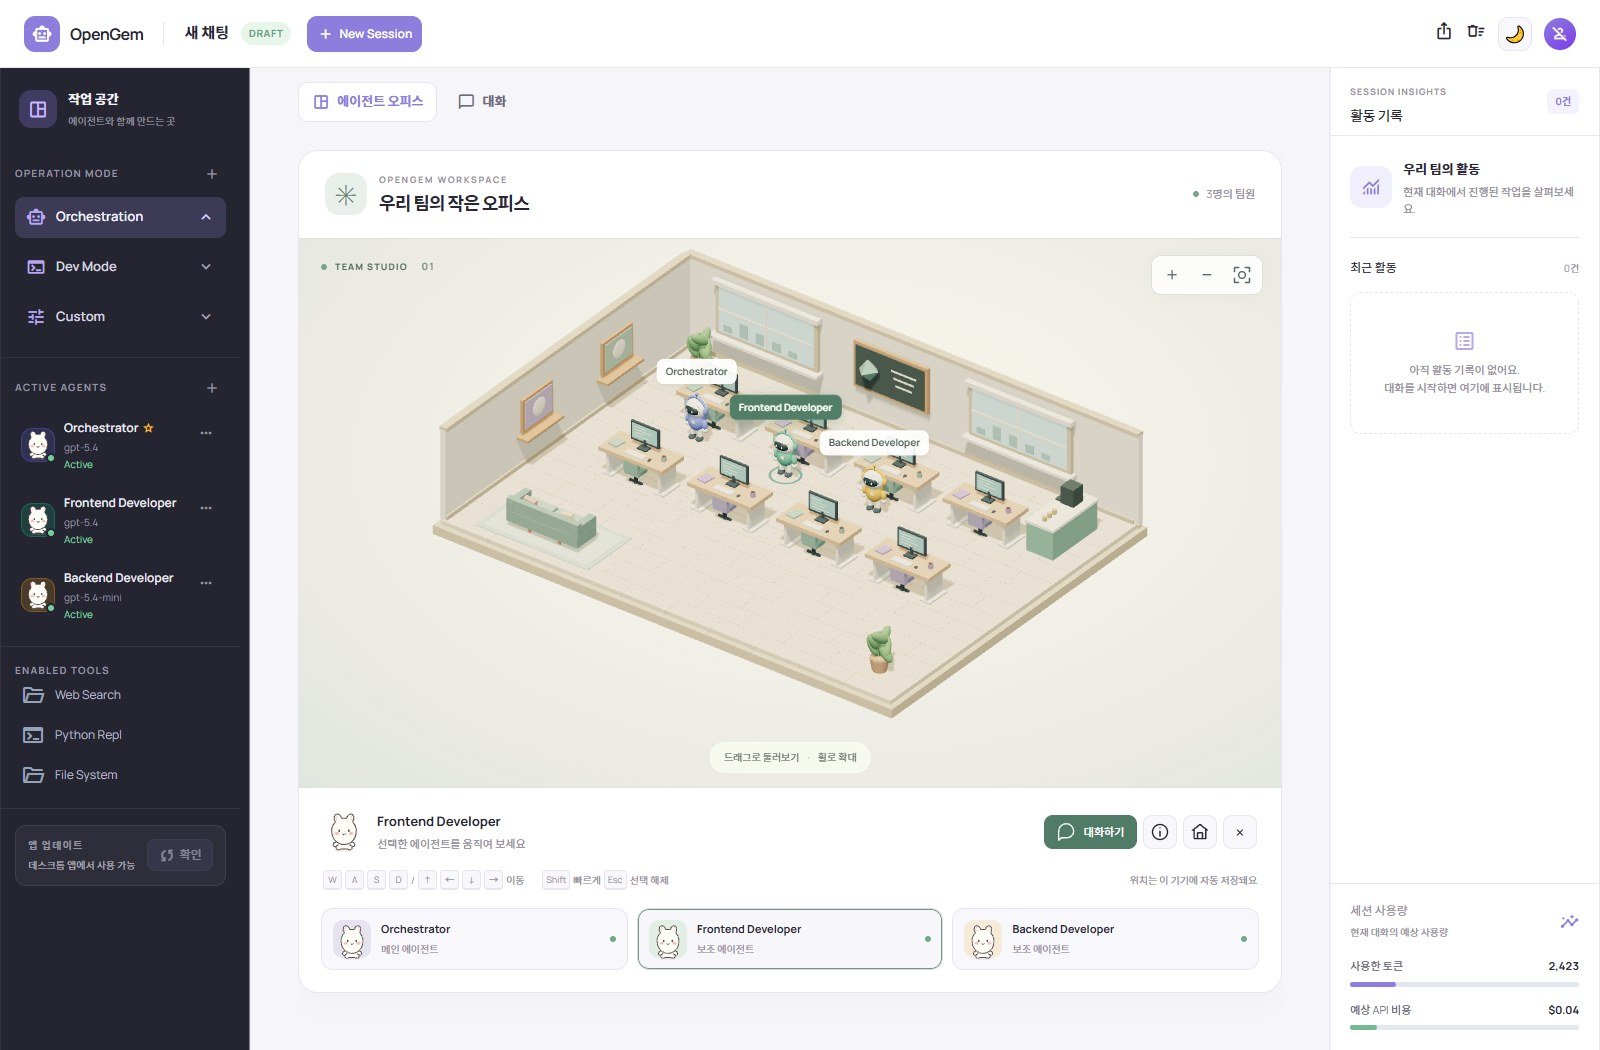
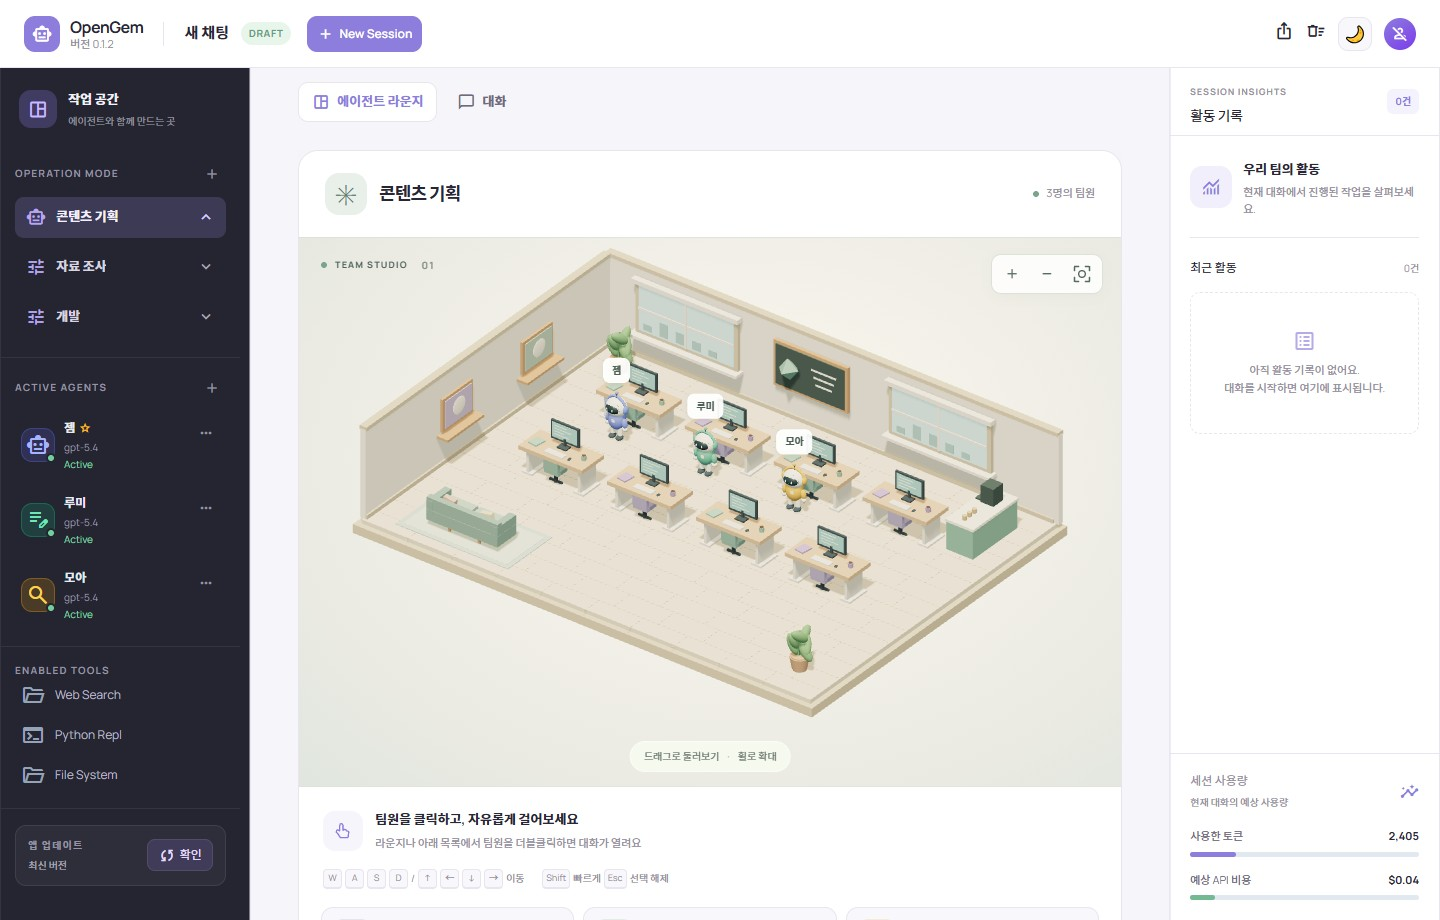
에이전트 라운지에 선택한 작업 모드 이름 표시

diff --git a/src/pages/chat/components/office/AgentOffice.tsx b/src/pages/chat/components/office/AgentOffice.tsx
@@ -9,6 +9,7 @@ import "./AgentOffice.css";
 const OfficeViewport = lazy(() => import("./OfficeViewport"));
 
 type AgentOfficeProps = {
+  modeName: string;
   agents: AgentItem[];
   selectedAgentIndex: number | null;
   onSelectAgent: (index: number) => void;
@@ -17,6 +18,7 @@ type AgentOfficeProps = {
 };
 
 export function AgentOffice({
+  modeName,
   agents,
   selectedAgentIndex,
   onSelectAgent,
@@ -41,16 +43,13 @@ export function AgentOffice({
   };
 
   return (
-    <section className="agent-office" aria-label="에이전트 오피스">
+    <section className="agent-office" aria-label="에이전트 라운지">
       <header className="office-header">
         <div className="office-title">
           <span className="office-brand-mark" aria-hidden="true">
             ✳
           </span>
-          <div>
-            <span className="office-eyebrow">OPENGEM WORKSPACE</span>
-            <h2>우리 팀의 작은 오피스</h2>
-          </div>
+          <h2>{modeName}</h2>
         </div>
         <span className="office-live">
           <i /> {agents.length}명의 팀원
@@ -60,7 +59,7 @@ export function AgentOffice({
         <Suspense
           fallback={
             <div className="office-loading" role="status">
-              3D 오피스를 준비하고 있어요…
+              라운지를 준비하고 있어요…
             </div>
           }
         >
@@ -182,14 +181,14 @@ export function AgentOffice({
               </strong>
               <span>
                 {agents.length
-                  ? "오피스나 아래 목록에서 팀원을 더블클릭하면 대화가 열려요"
+                  ? "라운지나 아래 목록에서 팀원을 더블클릭하면 대화가 열려요"
                   : "왼쪽 에이전트 메뉴에서 팀원을 추가해 주세요"}
               </span>
             </div>
           </>
         )}
       </div>
-      <div className="office-keyboard-guide" aria-label="오피스 조작 안내">
+      <div className="office-keyboard-guide" aria-label="에이전트 라운지 조작 안내">
         <span>
           <kbd>W</kbd>
           <kbd>A</kbd>

diff --git a/src/pages/chat/components/layout/ChatPanel.tsx b/src/pages/chat/components/layout/ChatPanel.tsx
@@ -8,6 +8,7 @@ import { getErrorMessage } from "@/features/app/appHelpers";
 import type { AgentItem, Message } from "@/types/chat";
 
 type ChatPanelProps = {
+  modeName: string;
   conversationLabel: string;
   conversationModel: string;
   conversationError: string;
@@ -41,6 +42,7 @@ type ChatPanelProps = {
 };
 
 export function ChatPanel({
+  modeName,
   conversationLabel,
   conversationModel,
   conversationError,
@@ -209,7 +211,7 @@ export function ChatPanel({
           <span className="material-symbols-outlined" aria-hidden="true">
             space_dashboard
           </span>{" "}
-          에이전트 오피스
+          에이전트 라운지
         </button>
         <button
           type="button"
@@ -245,6 +247,7 @@ export function ChatPanel({
         >
           {workspaceView === "office" ? (
             <AgentOffice
+              modeName={modeName}
               onStartChat={onStartAgentChat}
               isConversationBusy={isConversationBusy}
               agents={agents}

diff --git a/src/pages/chat/components/office/OfficeViewport.tsx b/src/pages/chat/components/office/OfficeViewport.tsx
@@ -108,7 +108,7 @@ export default function OfficeViewport({
     setFailed(false);
     const canvas = renderer.domElement;
     canvas.tabIndex = 0;
-    canvas.setAttribute("aria-label", "3D 에이전트 오피스");
+    canvas.setAttribute("aria-label", "에이전트 라운지 3D 보기");
     canvas.setAttribute(
       "aria-description",
       "에이전트를 더블클릭하면 대화가 열립니다. 한 번 클릭한 뒤 WASD 또는 방향키로 이동하세요. Escape로 선택을 해제합니다."

diff --git a/src/pages/chat/components/office/AgentOffice.css b/src/pages/chat/components/office/AgentOffice.css
@@ -33,16 +33,10 @@
   font-size: 28px;
   flex: none;
 }
-.office-eyebrow {
-  display: block;
-  margin-bottom: 5px;
-  font-size: 9px;
-  letter-spacing: 0.18em;
-  font-weight: 700;
-  color: var(--text-muted);
-}
 .office-title h2 {
   margin: 0;
+  /* 긴 모드 이름은 팀원 수 옆에서 줄바꿈합니다. */
+  overflow-wrap: anywhere;
   font-size: 18px;
   line-height: 1.4;
   letter-spacing: -0.045em;

diff --git a/src/pages/chat/ChatPage.tsx b/src/pages/chat/ChatPage.tsx
@@ -334,6 +334,7 @@ export function ChatPage() {
         />
 
         <ChatPanel
+          modeName={selectedMode}
           conversationLabel={
             currentAgentId ? (conversationAgent?.name ?? "삭제된 에이전트") : "일반 대화"
           }

diff --git a/tests/office/character-upload-fixture.tsx b/tests/office/character-upload-fixture.tsx
@@ -55,6 +55,7 @@ function CharacterUploadFixture() {
         에이전트 설정 열기
       </button>
       <AgentOffice
+        modeName="Orchestration"
         agents={agents}
         selectedAgentIndex={null}
         isConversationBusy={false}

diff --git a/tests/office/fixture.tsx b/tests/office/fixture.tsx
@@ -52,6 +52,7 @@ function Fixture() {
     <main className="fixture">
       <AgentOffice
         key={generation}
+        modeName="Orchestration"
         agents={agents}
         selectedAgentIndex={null}
         isConversationBusy={busy}
